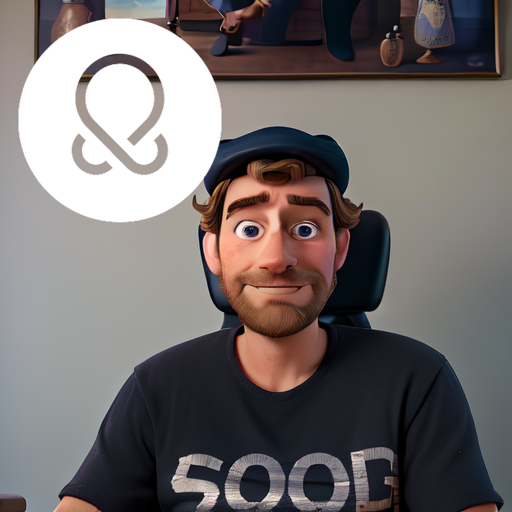
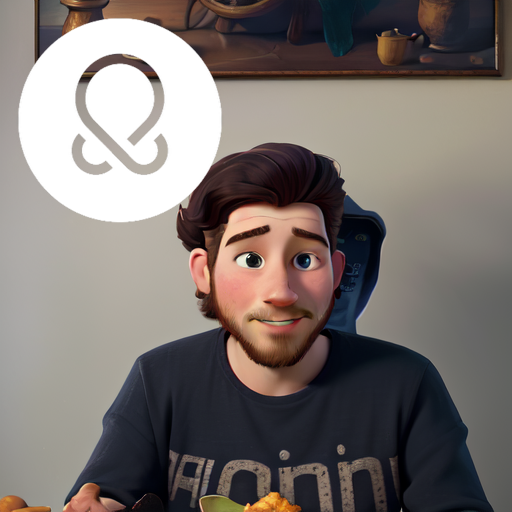
2nd iteration of updates for AI4

diff --git a/websites/cartoonizer/cartoonizer.py b/websites/cartoonizer/cartoonizer.py
@@ -11,12 +11,11 @@ SD_ENDPOINT = "https://cartoonizer-sd-demo-cgi-4jkxk521l3v1.octoai.cloud"
 st.set_page_config(layout="wide", page_title="Cartoonizer")
 
 # Powered by OctoML displayed in top right
-st.image("assets/octoml-octopus-white.png", width=100)
 st.markdown("""
 <style>
 .powered-by {
     position: absolute;
-    top: -130px;
+    top: -10px;
     right: 0;
     float: right;
 }
@@ -135,7 +134,7 @@ def cartoonize_image(upload, strength, seed, extra_desc):
     col2.image(imgS)
 
     st.markdown("\n")
-    st.download_button(label="Download cartoon", data=convert_image(imgS), file_name="cartoonized_marked.png")
+    st.download_button(label="Download cartoon", data=convert_image(imgS), file_name="cartoonized_marked.png", mime="cartoonized_marked/png")
 
 
 
@@ -227,7 +226,7 @@ strength = st.slider(
     3, 10, 4)
 
 seed = 0
-if st.button('Generate Cartoon!'):
+if st.button('Generate New Cartoon!'):
     seed = random.randint(0, 1024)
 
 # st.sidebar.markdown("The image to image generation is achieved via the [following checkpoint](https://civitai.com/models/75650/disney-pixar-cartoon-type-b) on CivitAI.")
